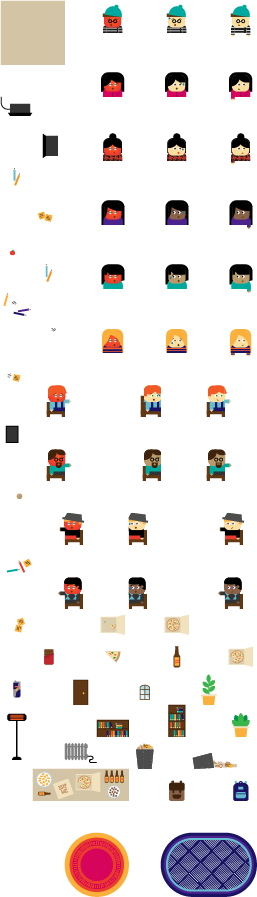
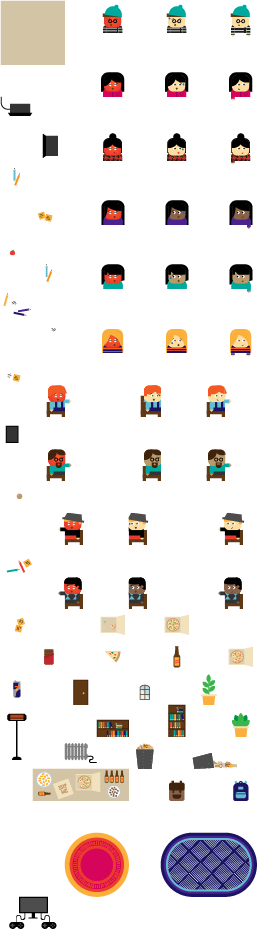
level

diff --git a/Assets/Tiled/FlameJam/Assets.tsx b/Assets/Tiled/FlameJam/Assets.tsx
@@ -1,6 +1,6 @@
 <?xml version="1.0" encoding="UTF-8"?>
-<tileset version="1.2" tiledversion="1.3.1" name="Assets" tilewidth="32" tileheight="32" tilecount="224" columns="8">
- <image source="Assets.png" width="257" height="897"/>
+<tileset version="1.2" tiledversion="1.3.1" name="Assets" tilewidth="32" tileheight="32" tilecount="232" columns="8">
+ <image source="Assets.png" width="257" height="929"/>
  <tile id="0">
   <objectgroup draworder="index" id="2">
    <object id="1" x="0.125" y="0.125" width="31.625" height="31.5"/>
@@ -504,6 +504,16 @@
    <object id="1" x="25.3146" y="31.9005">
     <polygon points="0,0 0.0686033,-15.0241 -1.64648,-16.7392 -1.71508,-19.2775 -5.00804,-19.7577 -5.69407,-19.0717 -10.6335,-19.6891 -11.2509,-18.3857 -14.8183,-19.2089 -15.2299,-16.8764 -17.0136,-14.2695 -16.8078,-0.0686033"/>
    </object>
+  </objectgroup>
+ </tile>
+ <tile id="224">
+  <objectgroup draworder="index" id="2">
+   <object id="1" x="7.95798" y="-0.0686033" width="23.9425" height="31.9005"/>
+  </objectgroup>
+ </tile>
+ <tile id="225">
+  <objectgroup draworder="index" id="2">
+   <object id="1" x="-2.1267" y="-0.0686033" width="27.7843" height="32.2435"/>
   </objectgroup>
  </tile>
 </tileset>
